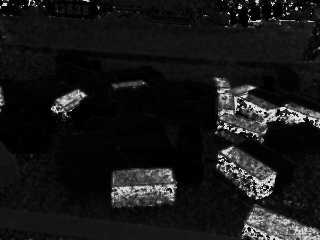
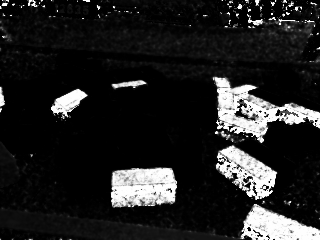
maxwell etc

diff --git a/itd-cv/ftc-cv-pt.py b/itd-cv/ftc-cv-pt.py
@@ -33,6 +33,16 @@ class PixelWiseColorRegression(nn.Module):
         return F.sigmoid(torch.sum(x * self.p, dim=1, keepdim=True) + self.b)
 
 
+class MaxwellTriangle(nn.Module):
+    def __init__(self, *args, **kwargs):
+        super().__init__(*args, **kwargs)
+
+    def forward(self, x):
+        x = x / (x.sum(dim=1, keepdim=True) + 1e-6)
+
+        return x
+
+
 class GenericColorPipeline(nn.Module):
     def __init__(self, channels, *args, **kwargs):
         super().__init__(*args, **kwargs)
@@ -67,7 +77,7 @@ for file in glob.glob("data/*.png"):
     if "-" in file:
         continue
     else:
-        new = file.replace(".png", "-blue-top.png")
+        new = file.replace(".png", "-blue.png")
         if os.path.exists(new):
             real_images.append(file)
             mask_images.append(new)
@@ -233,3 +243,9 @@ else:
     pred_v2 = pred_np
 
 Image.fromarray(pred_v2).save("prediction_v2.png")
+
+Image.fromarray(
+    (
+        MaxwellTriangle()(new_data).squeeze(0).permute(1, 2, 0).cpu().numpy() * 255
+    ).astype("uint8")
+).save("maxwell.png")
